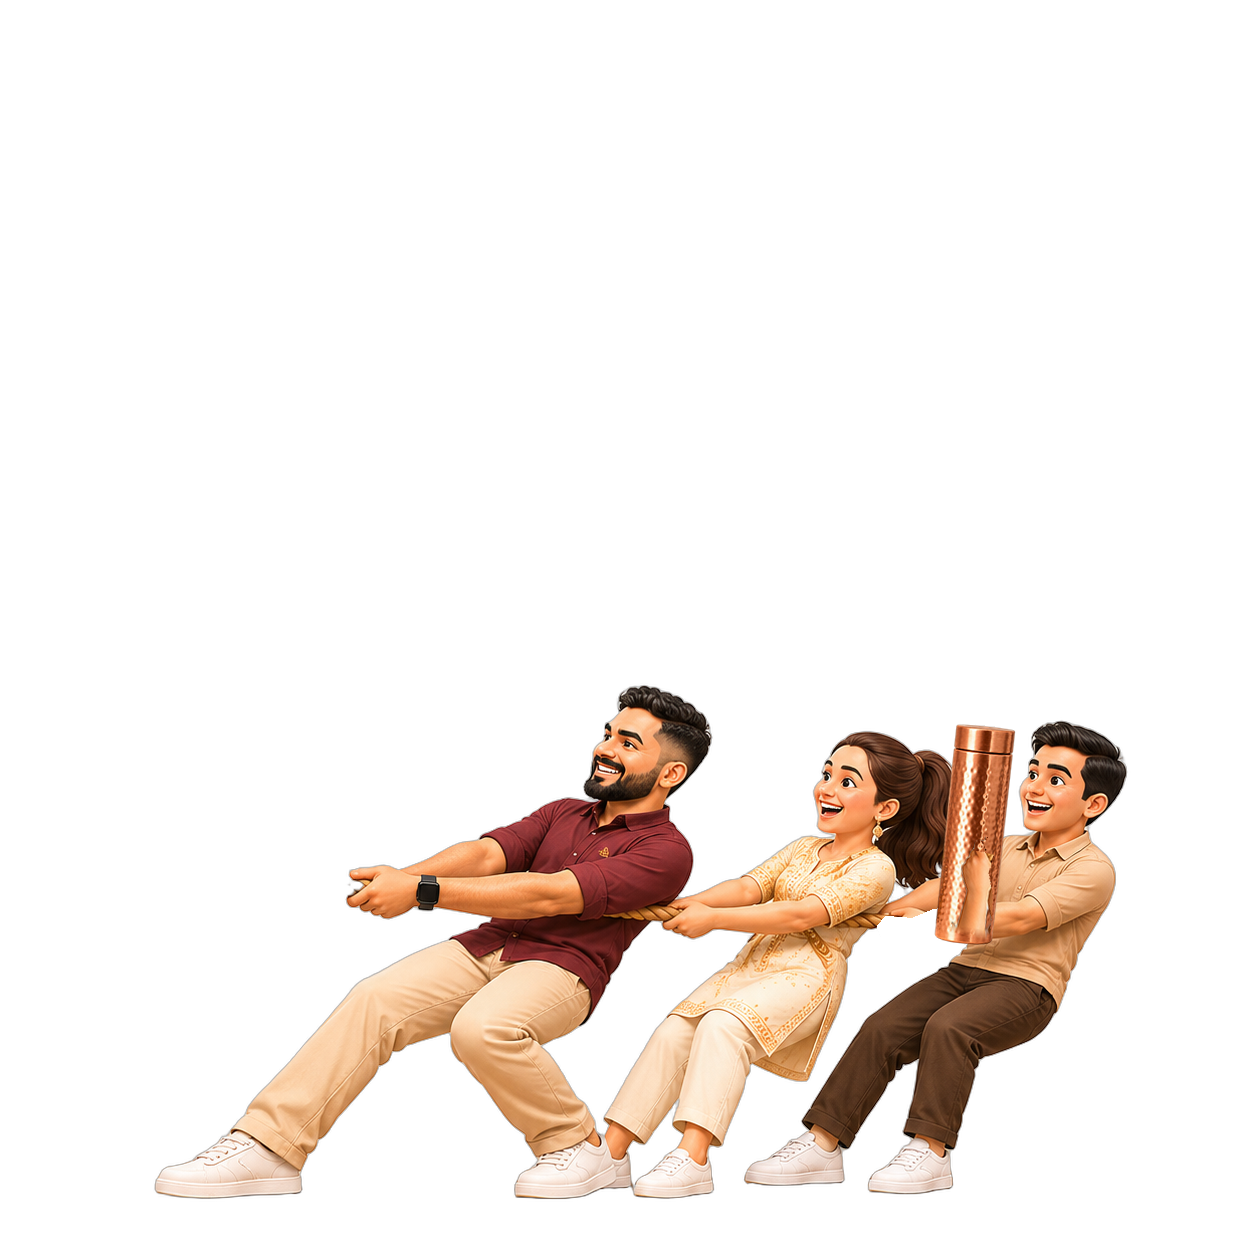
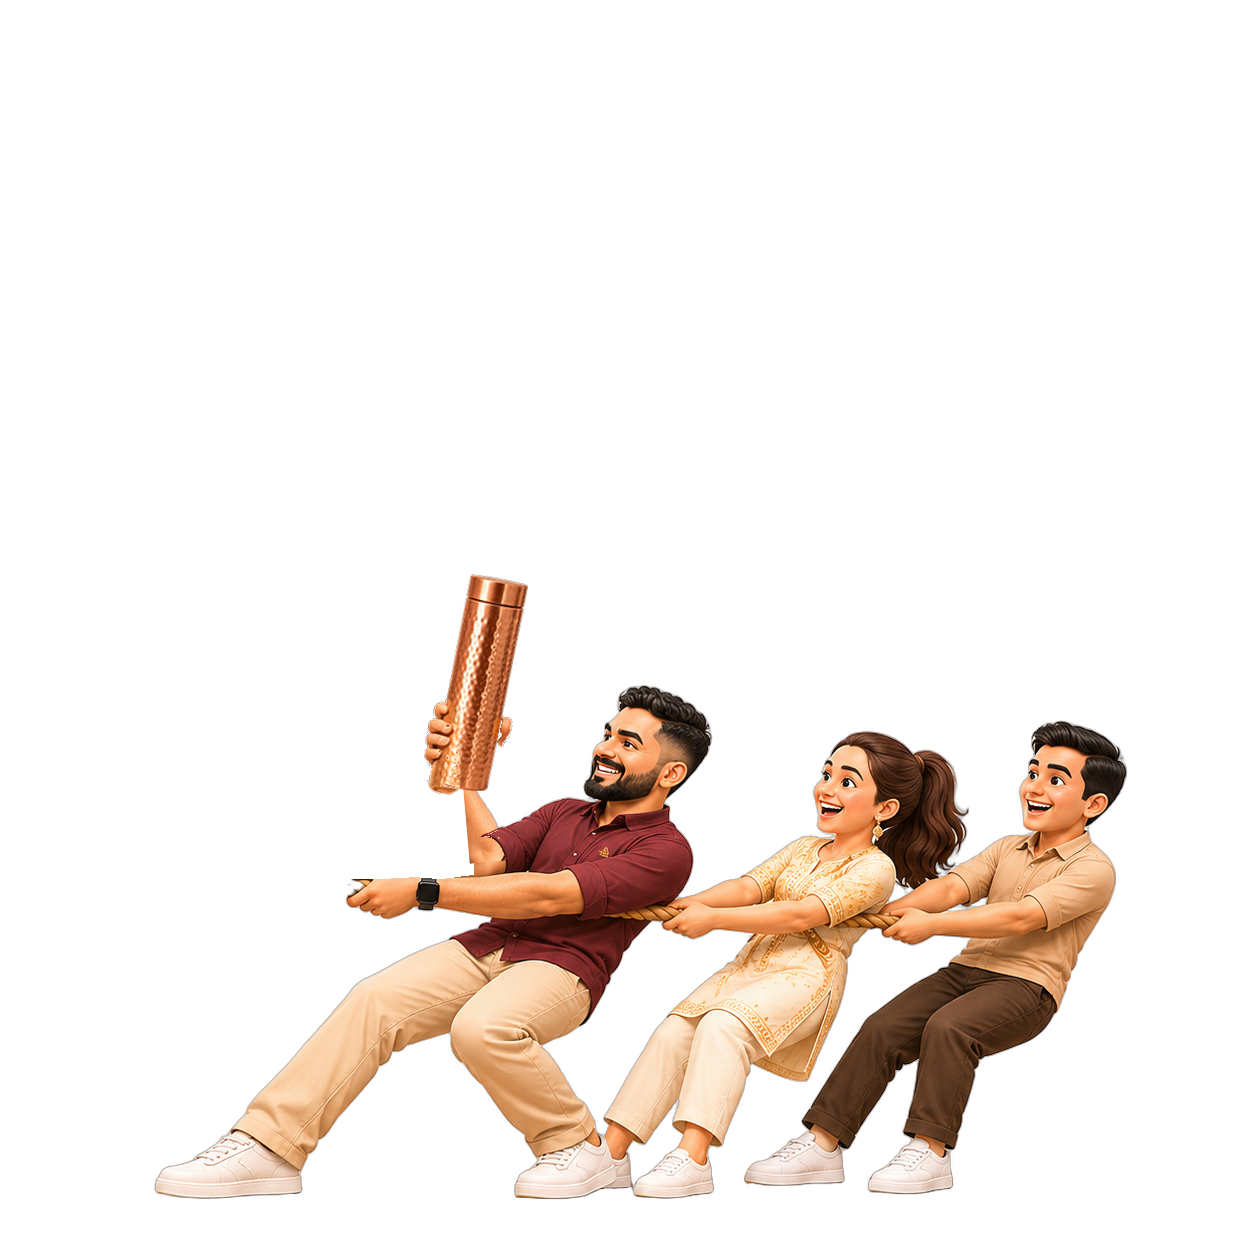
Carousel slide 4: dad raises the Ritikam bottle (per reference)
Rebuilt the bottle moment to match the client reference: the front man
lifts the real hammered copper bottle beside his face, fingers and thumb
wrapped around it, other hand still on the rope. The boy is back to his
original pose. Text block tightened to give the bottle headroom.

Claude-Session: https://claude.ai/code/session_01TnJbPoKK353phNoKg4wXPJ

Changed region(s): [[0.2799, 0.4354, 0.4354, 0.7153], [0.6842, 0.5598, 0.8086, 0.7775]]

diff --git a/ritikam-scroll-carousel/source/pano.html b/ritikam-scroll-carousel/source/pano.html
@@ -60,18 +60,18 @@ body{width:4320px;height:1350px;overflow:hidden}
  </div>
 
  <!-- ===== SLIDE 4 ===== -->
- <img class="abs" src="logo.png" style="left:3660px;top:40px;width:240px">
- <div class="abs h" style="left:3240px;top:232px;width:1080px">
+ <img class="abs" src="logo.png" style="left:3680px;top:24px;width:200px">
+ <div class="abs h" style="left:3240px;top:182px;width:1080px">
   <div style="font-size:112px"><span class="brown">Okay,</span> <span class="cu" style="font-style:italic;display:inline-block;padding:0 .16em .3em .22em;margin:0 -.12em -.3em -.2em;font-variant-ligatures:none;font-feature-settings:'liga' 0">fine.</span></div>
  </div>
- <svg class="abs" style="left:3866px;top:344px" width="210" height="24" viewBox="0 0 210 24"><path d="M3,18 C60,7 140,2 207,7 C140,8 70,12 5,22Z" fill="#B5652A"/></svg>
- <div class="abs" style="left:3240px;top:368px;width:1080px;text-align:center;font-family:PF;font-weight:600;font-size:50px;color:#5F3916">You stopped scrolling.</div>
- <div class="abs" style="left:3240px;top:444px;width:1080px;display:flex;align-items:center;justify-content:center;gap:26px">
+ <svg class="abs" style="left:3866px;top:294px" width="210" height="24" viewBox="0 0 210 24"><path d="M3,18 C60,7 140,2 207,7 C140,8 70,12 5,22Z" fill="#B5652A"/></svg>
+ <div class="abs" style="left:3240px;top:316px;width:1080px;text-align:center;font-family:PF;font-weight:600;font-size:50px;color:#5F3916">You stopped scrolling.</div>
+ <div class="abs" style="left:3240px;top:392px;width:1080px;display:flex;align-items:center;justify-content:center;gap:26px">
   <i style="display:block;width:90px;height:2px;background:#C8753A"></i>
   <div style="font-family:AF;font-weight:600;font-size:36px;line-height:1.18;color:#5F3916;text-align:center">Don’t lose money on the<br>wrong water bottle.</div>
   <i style="display:block;width:90px;height:2px;background:#C8753A"></i>
  </div>
- <div class="abs" style="left:3420px;top:556px;width:720px;height:112px;border-radius:16px;background:linear-gradient(180deg,#B8662B,#8E4519);box-shadow:0 12px 26px rgba(95,57,22,.28),inset 0 1px 0 rgba(255,220,180,.5);display:flex;align-items:center;justify-content:center">
+ <div class="abs" style="left:3420px;top:494px;width:720px;height:104px;border-radius:16px;background:linear-gradient(180deg,#B8662B,#8E4519);box-shadow:0 12px 26px rgba(95,57,22,.28),inset 0 1px 0 rgba(255,220,180,.5);display:flex;align-items:center;justify-content:center">
   <div style="position:absolute;inset:7px;border:1.5px solid rgba(241,165,108,.75);border-radius:11px"></div>
   <div style="font-family:PF;font-weight:600;font-size:37px;line-height:1.15;color:#F7F1E8;text-align:center">Ritikam is SGS certified<br>with <i style="font-weight:800;color:#FFD9B5">99.5% pure copper.</i></div>
  </div>
@@ -89,14 +89,14 @@ body{width:4320px;height:1350px;overflow:hidden}
 
  <!-- people (anchored so both grips sit on y=900) -->
  <img class="abs" src="man_c.png" style="left:-47.8px;top:349.1px;width:978.1px">
- <div class="abs" style="left:3855px;top:640px;width:290px;height:440px;border-radius:50%;background:radial-gradient(closest-side,rgba(255,226,186,.95),rgba(255,226,186,0))"></div>
+ <div class="abs" style="left:3418px;top:612px;width:260px;height:320px;border-radius:50%;background:radial-gradient(closest-side,rgba(255,226,186,.95),rgba(255,226,186,0))"></div>
  <img class="abs" src="trio_bottle.png" style="left:3117.3px;top:103.5px;width:1128.6px">
 
  <!-- effort marks -->
  <svg class="abs" style="left:8px;top:640px" width="90" height="80" viewBox="0 0 90 80" stroke="#C8753A" stroke-width="7" stroke-linecap="round"><path d="M60,8 L78,30"/><path d="M8,40 L48,48"/><path d="M14,76 L50,62"/></svg>
- <svg class="abs" style="left:3540px;top:704px" width="90" height="80" viewBox="0 0 90 80" stroke="#C8753A" stroke-width="6" stroke-linecap="round"><path d="M30,8 L14,30"/><path d="M82,40 L42,48"/><path d="M76,76 L40,62"/></svg>
+ <svg class="abs" style="left:3388px;top:628px" width="90" height="80" viewBox="0 0 90 80" stroke="#C8753A" stroke-width="6" stroke-linecap="round"><path d="M60,8 L78,30"/><path d="M8,40 L48,48"/><path d="M14,76 L50,62"/></svg>
 
- <svg class="abs" style="left:0;top:0;overflow:visible" width="1" height="1"><g transform="translate(3930,712) scale(1.1)"><path d="M0,-14 C1.5,-3 3,-1.5 14,0 C3,1.5 1.5,3 0,14 C-1.5,3 -3,1.5 -14,0 C-3,-1.5 -1.5,-3 0,-14Z" fill="#E08A43"/></g><g transform="translate(4062,718) scale(0.75)"><path d="M0,-14 C1.5,-3 3,-1.5 14,0 C3,1.5 1.5,3 0,14 C-1.5,3 -3,1.5 -14,0 C-3,-1.5 -1.5,-3 0,-14Z" fill="#E08A43"/></g><g transform="translate(3868,850) scale(0.7)"><path d="M0,-14 C1.5,-3 3,-1.5 14,0 C3,1.5 1.5,3 0,14 C-1.5,3 -3,1.5 -14,0 C-3,-1.5 -1.5,-3 0,-14Z" fill="#E08A43"/></g></svg>
+ <svg class="abs" style="left:0;top:0;overflow:visible" width="1" height="1"><g transform="translate(3640,650) scale(1.0)"><path d="M0,-14 C1.5,-3 3,-1.5 14,0 C3,1.5 1.5,3 0,14 C-1.5,3 -3,1.5 -14,0 C-3,-1.5 -1.5,-3 0,-14Z" fill="#E08A43"/></g><g transform="translate(3668,760) scale(0.7)"><path d="M0,-14 C1.5,-3 3,-1.5 14,0 C3,1.5 1.5,3 0,14 C-1.5,3 -3,1.5 -14,0 C-3,-1.5 -1.5,-3 0,-14Z" fill="#E08A43"/></g><g transform="translate(3470,840) scale(0.6)"><path d="M0,-14 C1.5,-3 3,-1.5 14,0 C3,1.5 1.5,3 0,14 C-1.5,3 -3,1.5 -14,0 C-3,-1.5 -1.5,-3 0,-14Z" fill="#E08A43"/></g></svg>
  <!-- swipe cues (slides 1–3) -->
  <div class="chev" style="left:950px;top:1222px"><svg viewBox="0 0 24 24"><path d="M6 6l6 6-6 6M13 6l6 6-6 6"/></svg></div>
  <div class="chev" style="left:2030px;top:1222px"><svg viewBox="0 0 24 24"><path d="M6 6l6 6-6 6M13 6l6 6-6 6"/></svg></div>

diff --git a/ritikam-scroll-carousel/source/arm3.py b/ritikam-scroll-carousel/source/arm3.py
@@ -1,0 +1,98 @@
+"""Dad raises the real Ritikam bottle (pose from the user's reference).
+- removes his upper rope forearm (only background behind it)
+- bends that forearm up at the elbow
+- grafts the reference hand (fingers + thumb) at the wrist, wrapped around the real bottle"""
+import sys, math, numpy as np, cv2
+from PIL import Image
+
+C = sys.argv[1]
+REF = '/root/.claude/uploads/aaa58fb8-ffff-5188-977f-fef18267f6c9/57d30e3d-image.png'
+ROT = float(sys.argv[2]) if len(sys.argv) > 2 else 85.0      # forearm rotation about the elbow
+K = float(sys.argv[3]) if len(sys.argv) > 3 else 1.15        # reference -> source scale
+BW = float(sys.argv[4]) if len(sys.argv) > 4 else 50.0       # bottle width in reference px
+TILT = float(sys.argv[5]) if len(sys.argv) > 5 else 15.0     # bottle lean (top to the right)
+BC = (float(sys.argv[7]) if len(sys.argv) > 7 else 87.0, float(sys.argv[6]) if len(sys.argv) > 6 else 525.0)  # bottle centre in reference px
+
+T = np.array(Image.open(C + 'trio.png').convert('RGBA'))
+H, W = T.shape[:2]; yy, xx = np.mgrid[0:H, 0:W]
+
+def poly(pts, shape):
+    m = np.zeros(shape, np.uint8); cv2.fillPoly(m, [np.array(pts, np.int32)], 255); return m > 0
+
+# 1) dad's upper forearm + the fingertips of that hand on the rope
+up = poly([(499, 832), (470, 837), (440, 845), (410, 852), (380, 859), (352, 863), (345, 870),
+           (352, 876), (380, 876), (415, 874), (440, 876), (470, 872), (499, 869)], (H, W))
+up = cv2.dilate(up.astype(np.uint8), np.ones((5, 5), np.uint8)) > 0
+J = (488.0, 853.0)                                            # elbow, just inside the rolled cuff
+fore = up & (xx > 398) & (xx < 497) & (yy < 873)                          # forearm only (no hand), runs into the cuff
+piece = T.copy().astype(np.float32)
+fe = np.clip((xx - 398) / 6.0, 0, 1)
+piece[..., 3] = np.where(fore, T[..., 3] * fe, 0); piece = piece.astype(np.uint8)
+base = T.copy(); base[up & (xx < 474), 3] = 0     # keep a short stub: the elbow
+
+c, s = math.cos(math.radians(ROT)), math.sin(math.radians(ROT))
+R = np.array([[c, -s, J[0] - c * J[0] + s * J[1]], [s, c, J[1] - s * J[0] - c * J[1]]], float)
+fore2 = cv2.warpAffine(piece, R, (W, H), flags=cv2.INTER_CUBIC, borderValue=(0, 0, 0, 0))
+wrist = R @ np.array([404.0, 857.0, 1.0])                      # far end of the forearm after the bend
+
+# 2) hand from the reference: fingers + thumb (ref coords), drawn over the real bottle
+ref = np.array(Image.open(REF).convert('RGB'))
+rh, rw = ref.shape[:2]
+fingers = [(54, 515), (63, 513), (71, 519), (73, 535), (71, 560), (69, 585), (61, 589), (48, 587),
+           (42, 576), (43, 560), (45, 545), (47, 530)]
+thumb = [(101, 535), (109, 530), (116, 533), (118, 543), (113, 552), (104, 554), (99, 546)]
+palm = [(58, 584), (70, 588), (96, 588), (97, 596), (66, 597), (59, 592)]
+hm = (poly(fingers, (rh, rw)) | poly(thumb, (rh, rw))).astype(np.float32)
+hm = cv2.GaussianBlur(hm, (0, 0), 0.8)
+# clean the white halo the reference has around the hand: drop near-background pixels
+bgd = np.abs(ref.astype(int) - np.array([248, 236, 224])).sum(2) < 40
+hm[bgd] = 0
+rr, gg, bb = ref[..., 0].astype(int), ref[..., 1].astype(int), ref[..., 2].astype(int)
+maroon = (rr < 150) & (rr - gg > 35) & (gg < 90) & (np.mgrid[0:rh, 0:rw][1] > 96)
+hm[maroon] = 0
+handA = np.dstack([ref, (hm * 255).astype(np.uint8)])
+
+# assemble hand + bottle on a working canvas in reference coordinates, then map to source
+CW, CH = 220, 330; ox, oy = -10, 360                          # canvas covers ref x -10..210, y 360..690
+canvas = np.zeros((CH, CW, 4), np.uint8)
+def comp(dst, src, x, y):
+    h, w = src.shape[:2]
+    x0, y0, x1, y1 = max(x, 0), max(y, 0), min(x + w, dst.shape[1]), min(y + h, dst.shape[0])
+    if x1 <= x0 or y1 <= y0: return
+    s_ = src[y0 - y:y1 - y, x0 - x:x1 - x].astype(float); a = s_[..., 3:4] / 255.
+    d_ = dst[y0:y1, x0:x1].astype(float); da = d_[..., 3:4] / 255.
+    oa = a + da * (1 - a)
+    rgb = (s_[..., :3] * a + d_[..., :3] * da * (1 - a)) / np.maximum(oa, 1e-6)
+    dst[y0:y1, x0:x1, :3] = np.clip(rgb, 0, 255).astype(np.uint8); dst[y0:y1, x0:x1, 3:4] = (oa * 255).astype(np.uint8)
+
+Bt = Image.open(C + 'bottle.png').convert('RGBA')
+bl = BW * Bt.height / Bt.width
+Bt = Bt.resize((round(BW * 2), round(bl * 2)), Image.LANCZOS).rotate(-TILT, expand=True, resample=Image.BICUBIC)
+Bt = Bt.resize((Bt.width // 2, Bt.height // 2), Image.LANCZOS)
+Bn = np.array(Bt)
+comp(canvas, Bn, int(round(BC[0] - ox - Bn.shape[1] / 2)), int(round(BC[1] - oy - Bn.shape[0] / 2)))
+comp(canvas, handA[oy:oy + CH, max(ox, 0):ox + CW] if ox >= 0 else np.pad(handA, ((0, 0), (-ox, 0), (0, 0)))[oy:oy + CH, 0:CW], 0, 0)
+
+# map canvas to source: reference wrist point (84, 596) lands on our forearm's end; slight lean to match the forearm
+wr_ref = np.array([84.0 - ox, float(sys.argv[8]) - oy if len(sys.argv) > 8 else 596.0 - oy])
+lean = -(ROT - 85.0) - 4.0
+cl, sl = math.cos(math.radians(lean)), math.sin(math.radians(lean))
+A = np.array([[K * cl, -K * sl, 0], [K * sl, K * cl, 0]], float)
+A[:, 2] = wrist - A[:, :2] @ wr_ref
+handbottle = cv2.warpAffine(canvas, A, (W, H), flags=cv2.INTER_CUBIC, borderValue=(0, 0, 0, 0))
+
+out = base.copy()
+comp(out, fore2, 0, 0)
+# put the original rolled cuff back over the forearm's root
+cb = np.zeros_like(T); bx_ = (xx >= 478) & (xx <= 520) & (yy >= 822) & (yy <= 884)
+mr = (T[..., 0].astype(int) - T[..., 1].astype(int) > 40) & (T[..., 0] < 170) & (T[..., 3] > 200)
+cb[bx_ & mr] = T[bx_ & mr]
+comp(out, cb, 0, 0)
+comp(out, handbottle, 0, 0)
+Image.fromarray(out).save(C + 'trio_bottle.png')
+bc = A @ np.array([BC[0] - ox, BC[1] - oy, 1.0])
+top = A @ np.array([BC[0] - ox, BC[1] - oy - bl / 2, 1.0])
+print('wrist', wrist.round(1), 'bottle centre', bc.round(1), 'bottle top y', round(top[1], 1))
+crop = Image.fromarray(out).crop((300, 520, 760, 1000))
+bg = Image.new('RGBA', crop.size, (247, 236, 224, 255)); bg.alpha_composite(crop)
+bg.resize((crop.width * 2, crop.height * 2), Image.LANCZOS).save(C + 'arm_check.png')
